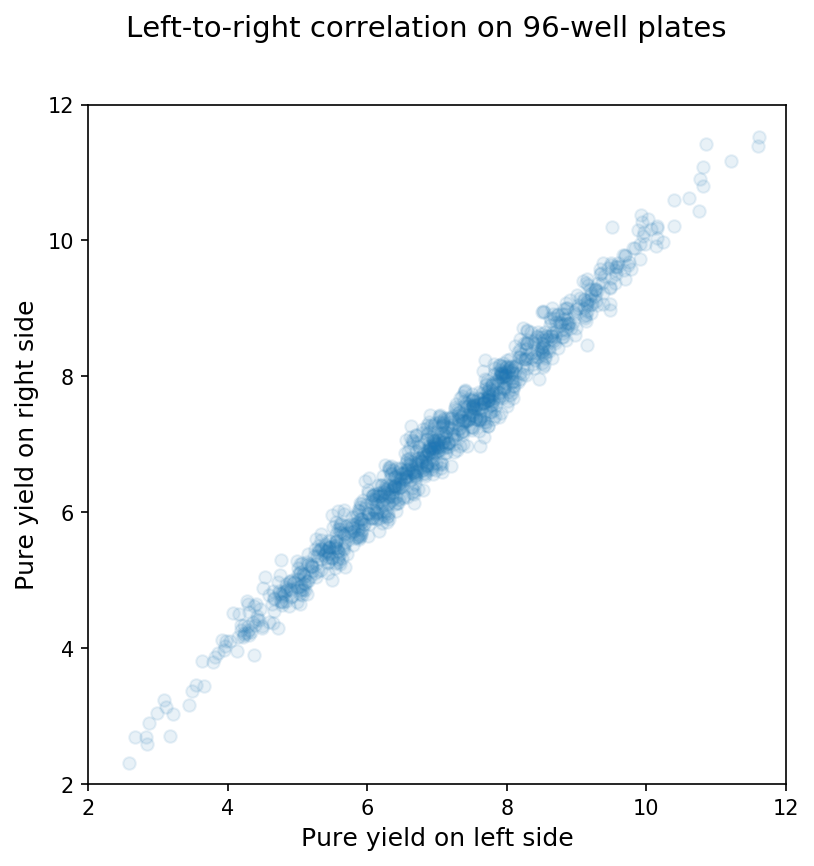
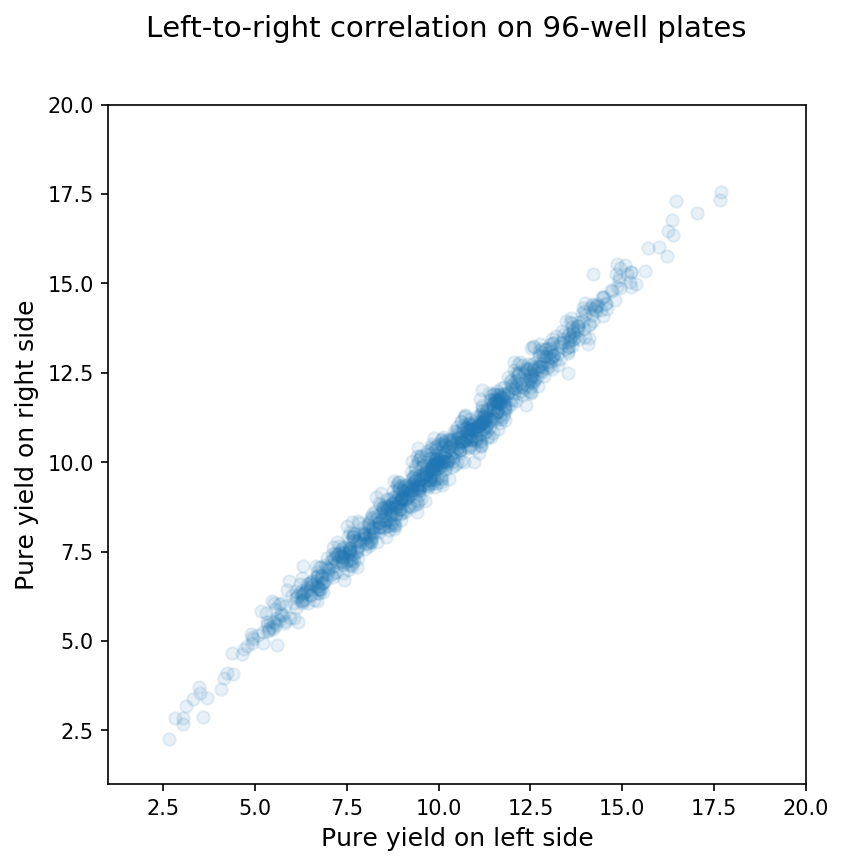
cleanup

diff --git a/content/ExperimentalDesignSampling.md b/content/ExperimentalDesignSampling.md
@@ -165,10 +165,10 @@ Why do we see a much narrower distribution for a random sample of 96 wells versu
  
  | Group             | Mean  | Standard Deviation |
  | ----------------- | ----- | ------------------ |
- | Well (Population) | 6.986 | 1.807              |
- | Synthesis         | 6.986 | 1.508              |
- | Random Sample     | 6.983 | 0.178              |
- | Predicted         | 6.986 | 0.184              |
+ | Well (Population) | 9.976 | 2.922              |
+ | Synthesis         | 9.976 | 2.513              |
+ | Random Sample     | 9.981 | 0.291              |
+ | Predicted         | 9.976 | 0.298              |
  
  Clearly, the random sample matches our predictions from the Central Limit Theorem, and the 96 wells on an individual synthesis are not random samples from the larger population of wells. We can see this another way by comparing the means between arbitrary subsets of a synthesis or random sample. In this case, I just compared the mean for wells on the left half of the 96-well plate to the mean for wells on the right half of the 96-well plate for a synthesis or random sample. For 96-well random samples, we see almost no correlation between the means from each side as shown below:
  
@@ -192,10 +192,10 @@ $H_a: \text{pure yield}_{\text{new}} > \text{pure yield}_{\text{old}}$
 
 We then run a single control synthesis with our old process and a single treatment synthesis with our new process and get the following results:
 
-| Synthesis ID | Experimental Group | Mean  | Standard Deviation |
-| ------------ | ------------------ | ----- | ------------------ |
-| 3            | Control            | 5.925 | 0.932              |
-| 4            | Treatment          | 8.995 | 1.036              |
+| Synthesis ID | Experimental Group | Mean   | Standard Deviation |
+| ------------ | ------------------ | ------ | ------------------ |
+| 3            | Control            | 8.211  | 1.399              |
+| 4            | Treatment          | 13.314 | 1.554              |
 
 Looks promising, right? We then naively assume that each well is independent and that a synthesis is a random sample of 96 wells. We perform a _t_-test with our experimental results and those assumptions as shown below:
 ```python
@@ -210,20 +210,20 @@ print(t_test_results)
 # Output: Ttest_indResult(statistic=21.579125882009635, pvalue=5.402301203063555e-53) 
 ``` 
  
-Whoa, our _t_-statistic is 21.6 with a _p_-value of $5 \times 10^{-53}$; we should definitely reject the null hypothesis. Clearly, our new process change is amazing, and we're super geniuses for thinking of it. Is that really true, though?
+Whoa, our _t_-statistic is 23.9 with a _p_-value of $3 \times 10^{-59}$; we should definitely reject the null hypothesis. Clearly, our new process change is amazing, and we're super geniuses for thinking of it. Is that really true, though?
 
 Unfortunately, one of the key assumptions of the _t_ test is that the samples have been randomly drawn from the larger population. As we discussed earlier, a synthesis is not a random sample of 96 wells, though! So, our new process change might be amazing, but we don't have enough evidence of that yet. (Whether we're super geniuses also remains to be seen.) Realizing this, we perform several more syntheses to test our new process change:
 
-| Synthesis ID | Experimental Group | Mean  | Standard Deviation |
-| ------------ | ------------------ | ----- | ------------------ |
-| 3            | Control            | 5.925 | 0.932              |
-| 4            | Treatment          | 8.995 | 1.036              |
-| 5            | Control            | 4.962 | 1.069              |
-| 6            | Treatment          | 6.153 | 1.048              |
-| 7            | Control            | 7.703 | 0.837              |
-| 8            | Treatment          | 6.850 | 0.977              |
-| 9            | Control            | 9.458 | 0.990              |
-| 10           | Treatment          | 7.141 | 1.030              |
+| Synthesis ID | Experimental Group | Mean   | Standard Deviation |
+| ------------ | ------------------ | ------ | ------------------ |
+| 3            | Control            | 8.211  | 1.399              |
+| 4            | Treatment          | 13.314 | 1.554              |
+| 5            | Control            | 6.607  | 1.603              |
+| 6            | Treatment          | 8.603  | 1.571              |
+| 7            | Control            | 11.220 | 1.255              |
+| 8            | Treatment          | 9.755  | 1.465              |
+| 9            | Control            | 14.086 | 1.485              |
+| 10           | Treatment          | 10.249 | 1.545              |
 
 We then run our _t_-test again, this time using the synthesis mean instead of the data from all 96 wells.
 
@@ -242,8 +242,4 @@ After correctly applying the _t_ test using appropriate assumptions, we find tha
 
 # Summary
 
-When designing experiments, thinking through and verifying the assumptions of the planned statistical tests ensures that the results are valid. Statistical simulations are a powerful tool to verify these assumptions using existing data, and pandas makes them incredibly simple to perform! Even though you will probably just end up verifying the Central Limit Theorem, in some cases, like the syntheses here, simulation can help clarify key assumptions for experimental design. Simulation can also be used to calculate statistical power (the number of experiments needed to avoid a false positive), but that is a subject for another post!
-
-## Aside: Sampling from non-normal distributions
-
-Placeholder text
+When designing experiments, thinking through and verifying the assumptions of the planned statistical tests ensures that the results are valid. Statistical simulations are a powerful tool to verify these assumptions using existing data, and pandas makes them incredibly simple to perform! Even though you will probably just end up verifying the Central Limit Theorem, in some cases, like the syntheses here, simulation can help clarify key assumptions for experimental design. Simulation can also be used to calculate statistical power (the number of experiments needed to avoid a false positive), but that is a subject for another post. There's also some additional interesting consequences to the Central Limit Theorem when the population distribution is not normal.
